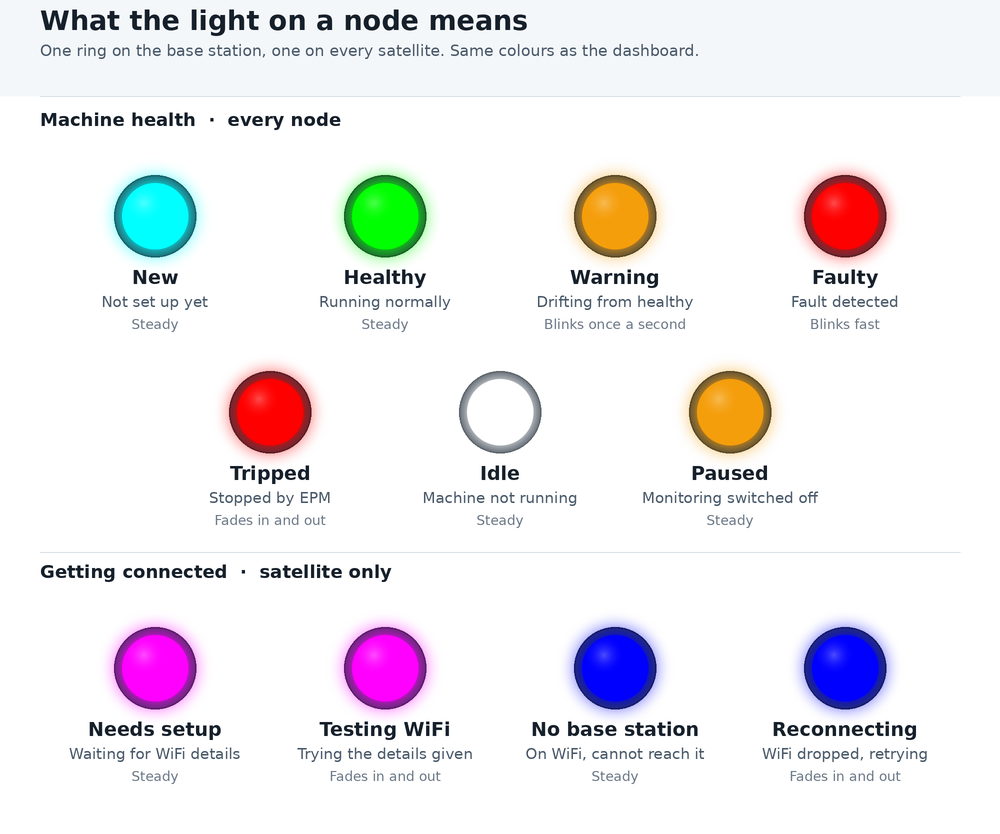
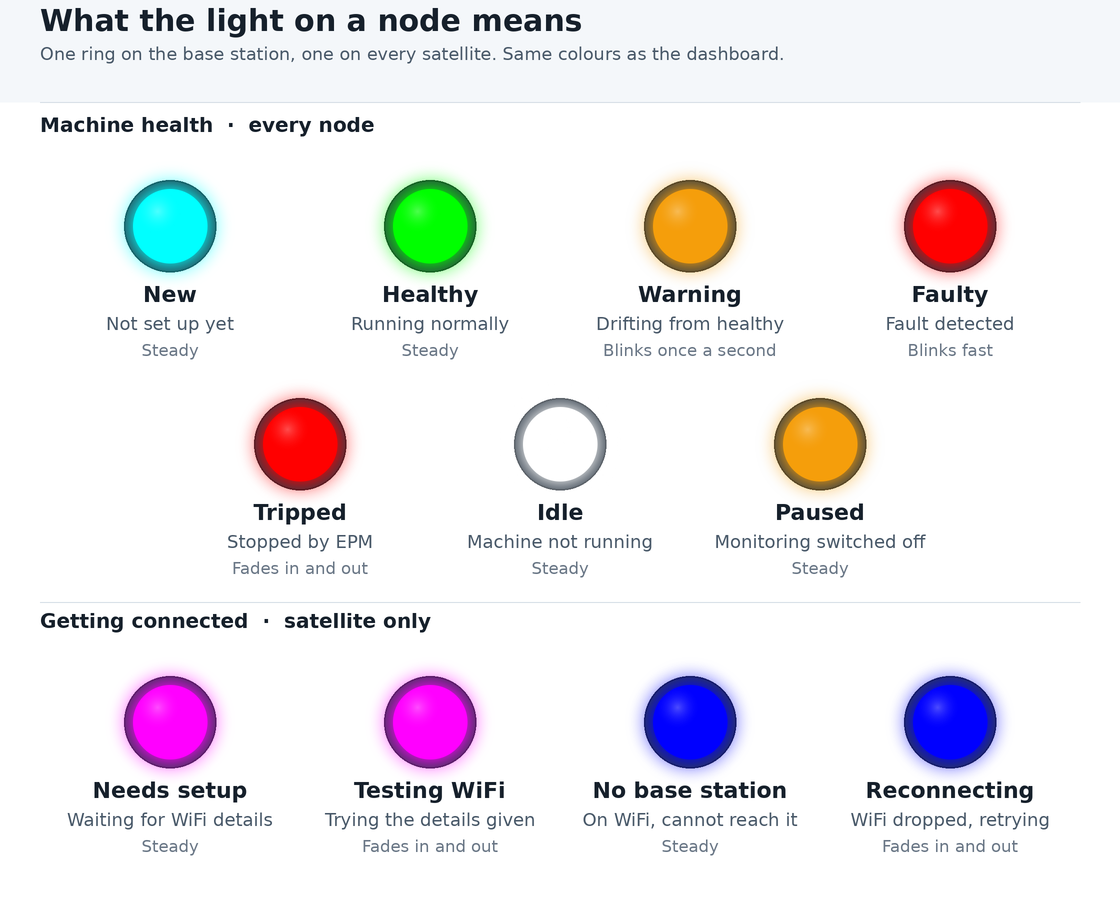
diagrams: bigger sub-text on the status-light legend
The state description and blink-pattern lines were too small to read at
posted size. Type scale up one step throughout (desc 15->18, pattern
13.5->16.5, name 19->22), canvas widened 1000->1120 so the widest line
("Monitoring switched off", 215 px at 18 px) still clears its column, and
lamps grown to match so the rings do not read as shrunken next to the text.

diff --git a/report/diagrams/gen/d18_status_light.py b/report/diagrams/gen/d18_status_light.py
@@ -93,14 +93,14 @@ PATTERN_WORDS = {
 
 # ---------------------------------------------------------------------------
 # Layout (1x units).
-W = 1000
+W = 1120
 MARGIN = 40
-TITLE_H = 96
-LAMP_R = 33          # lit disc
-DOME_R = 41          # diffuser housing around it
-GLOW = 26            # halo reach beyond the disc
-CELL_H = 196
-LAMP_DY = 60         # lamp centre below the cell top
+TITLE_H = 102
+LAMP_R = 37          # lit disc
+DOME_R = 46          # dark bezel around it
+GLOW = 28            # halo reach beyond the disc
+CELL_H = 218
+LAMP_DY = 64         # lamp centre below the cell top
 
 ROW_A1, ROW_A2 = SHARED[:4], SHARED[4:]
 COLS = 4
@@ -145,28 +145,28 @@ def build_background():
 
     d.rectangle([0, 0, W * S, TITLE_H * S], fill=BAND)
     d.line([MARGIN * S, TITLE_H * S, (W - MARGIN) * S, TITLE_H * S], fill=HAIRLINE, width=S)
-    d.text((MARGIN * S, 30 * S), "What the light on a node means",
-           font=font(27, bold=True), fill=INK, anchor="ls")
-    d.text((MARGIN * S, 56 * S), "One ring on the base station, one on every satellite. Same colours as the dashboard.",
-           font=font(15.5), fill=INK_SOFT, anchor="ls")
+    d.text((MARGIN * S, 31 * S), "What the light on a node means",
+           font=font(30, bold=True), fill=INK, anchor="ls")
+    d.text((MARGIN * S, 60 * S), "One ring on the base station, one on every satellite. Same colours as the dashboard.",
+           font=font(17.5), fill=INK_SOFT, anchor="ls")
 
     d.text((MARGIN * S, SEC_A_Y * S), "Machine health  ·  every node",
-           font=font(18, bold=True), fill=INK, anchor="ls")
+           font=font(20, bold=True), fill=INK, anchor="ls")
     d.line([MARGIN * S, DIV_Y * S, (W - MARGIN) * S, DIV_Y * S], fill=HAIRLINE, width=S)
     d.text((MARGIN * S, SEC_B_Y * S), "Getting connected  ·  satellite only",
-           font=font(18, bold=True), fill=INK, anchor="ls")
+           font=font(20, bold=True), fill=INK, anchor="ls")
 
     rows = [(ROW_A1, ROW_A1_Y), (ROW_A2, ROW_A2_Y), (SATELLITE, ROW_B_Y)]
     lamps = []
-    f_name, f_desc, f_pat = font(19, bold=True), font(15), font(13.5)
+    f_name, f_desc, f_pat = font(22, bold=True), font(18), font(16.5)
     for items, row_y in rows:
         for (cx, cy), (label, desc, rgb, mode, period) in zip(cell_positions(items, row_y), items):
             ly = cy + LAMP_DY
             d.ellipse([(cx - DOME_R) * S, (ly - DOME_R) * S, (cx + DOME_R) * S, (ly + DOME_R) * S],
                       fill=BEZEL, outline=BEZEL_EDGE, width=int(1.6 * S))
-            d.text((cx * S, (cy + 128) * S), label, font=f_name, fill=INK, anchor="ms")
-            d.text((cx * S, (cy + 151) * S), desc, font=f_desc, fill=INK_SOFT, anchor="ms")
-            d.text((cx * S, (cy + 173) * S), PATTERN_WORDS[(mode, period)],
+            d.text((cx * S, (cy + 140) * S), label, font=f_name, fill=INK, anchor="ms")
+            d.text((cx * S, (cy + 168) * S), desc, font=f_desc, fill=INK_SOFT, anchor="ms")
+            d.text((cx * S, (cy + 194) * S), PATTERN_WORDS[(mode, period)],
                    font=f_pat, fill=INK_FAINT, anchor="ms")
             lamps.append((cx, ly, hex_rgb(rgb), mode, period))
     return img, lamps
